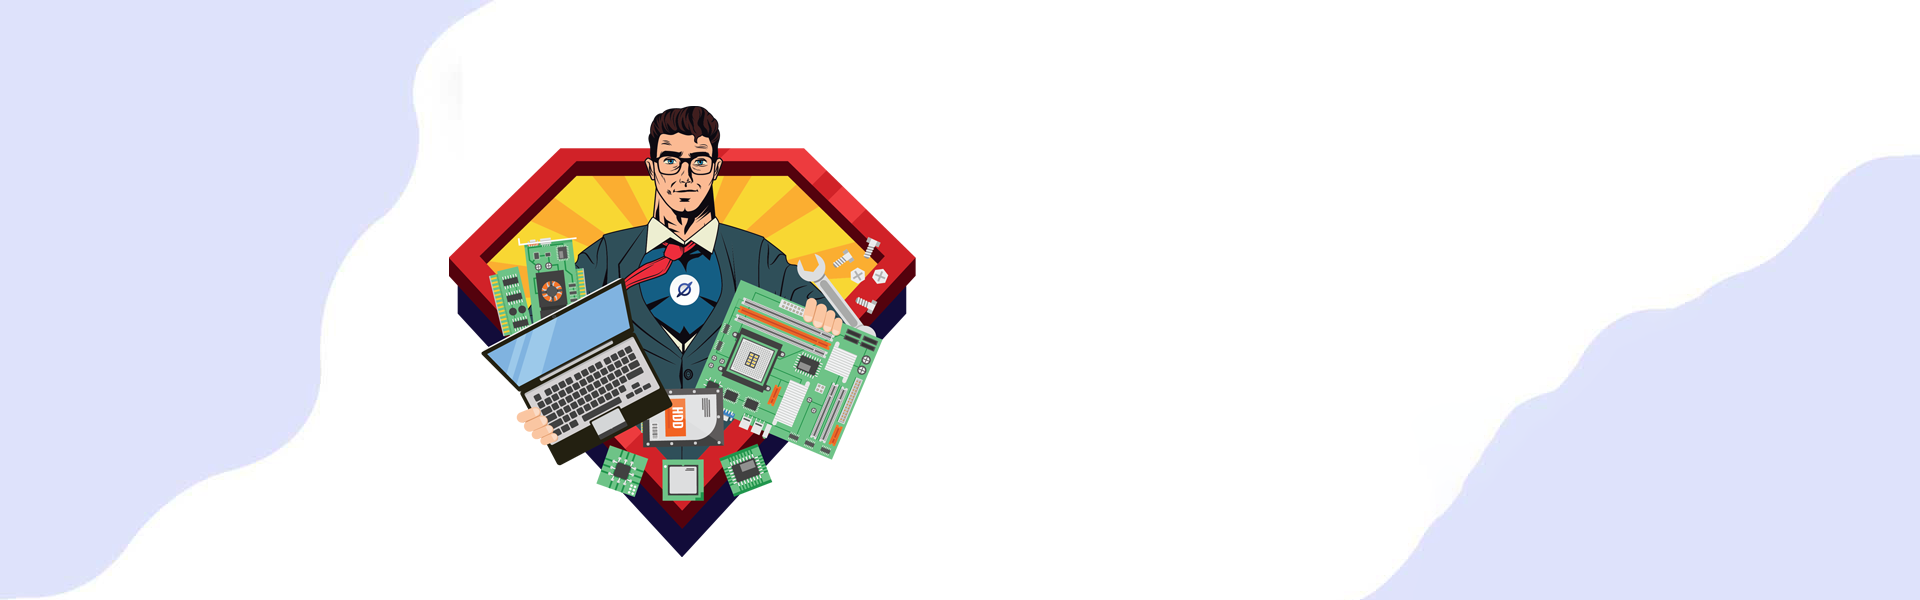
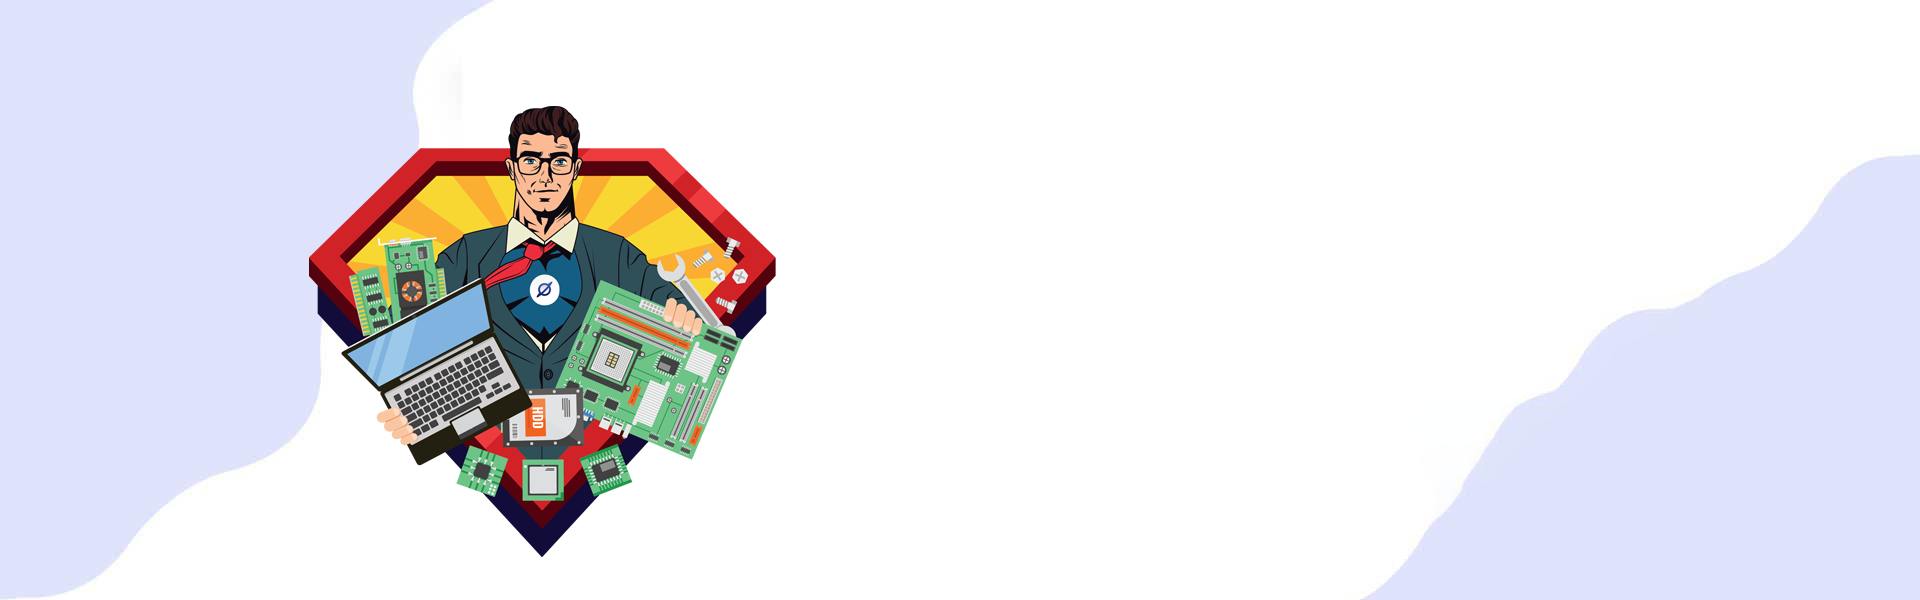
feat: update header mobile

Changed region(s): [[0.1562, 0.18, 0.5, 0.93]]

diff --git a/assets/css/style.css b/assets/css/style.css
@@ -726,11 +726,12 @@ h6,
         background-size: cover;
     }
     .display-3{
-        font-size: 45px;
+        font-size: 30px;
     }
     .page-header .breadcrumb-item,
     .page-header .breadcrumb-item a {
         font-weight: 300;
+        font-size: 12px;
     }
     div .service-tables {
       font-size: 12px;
